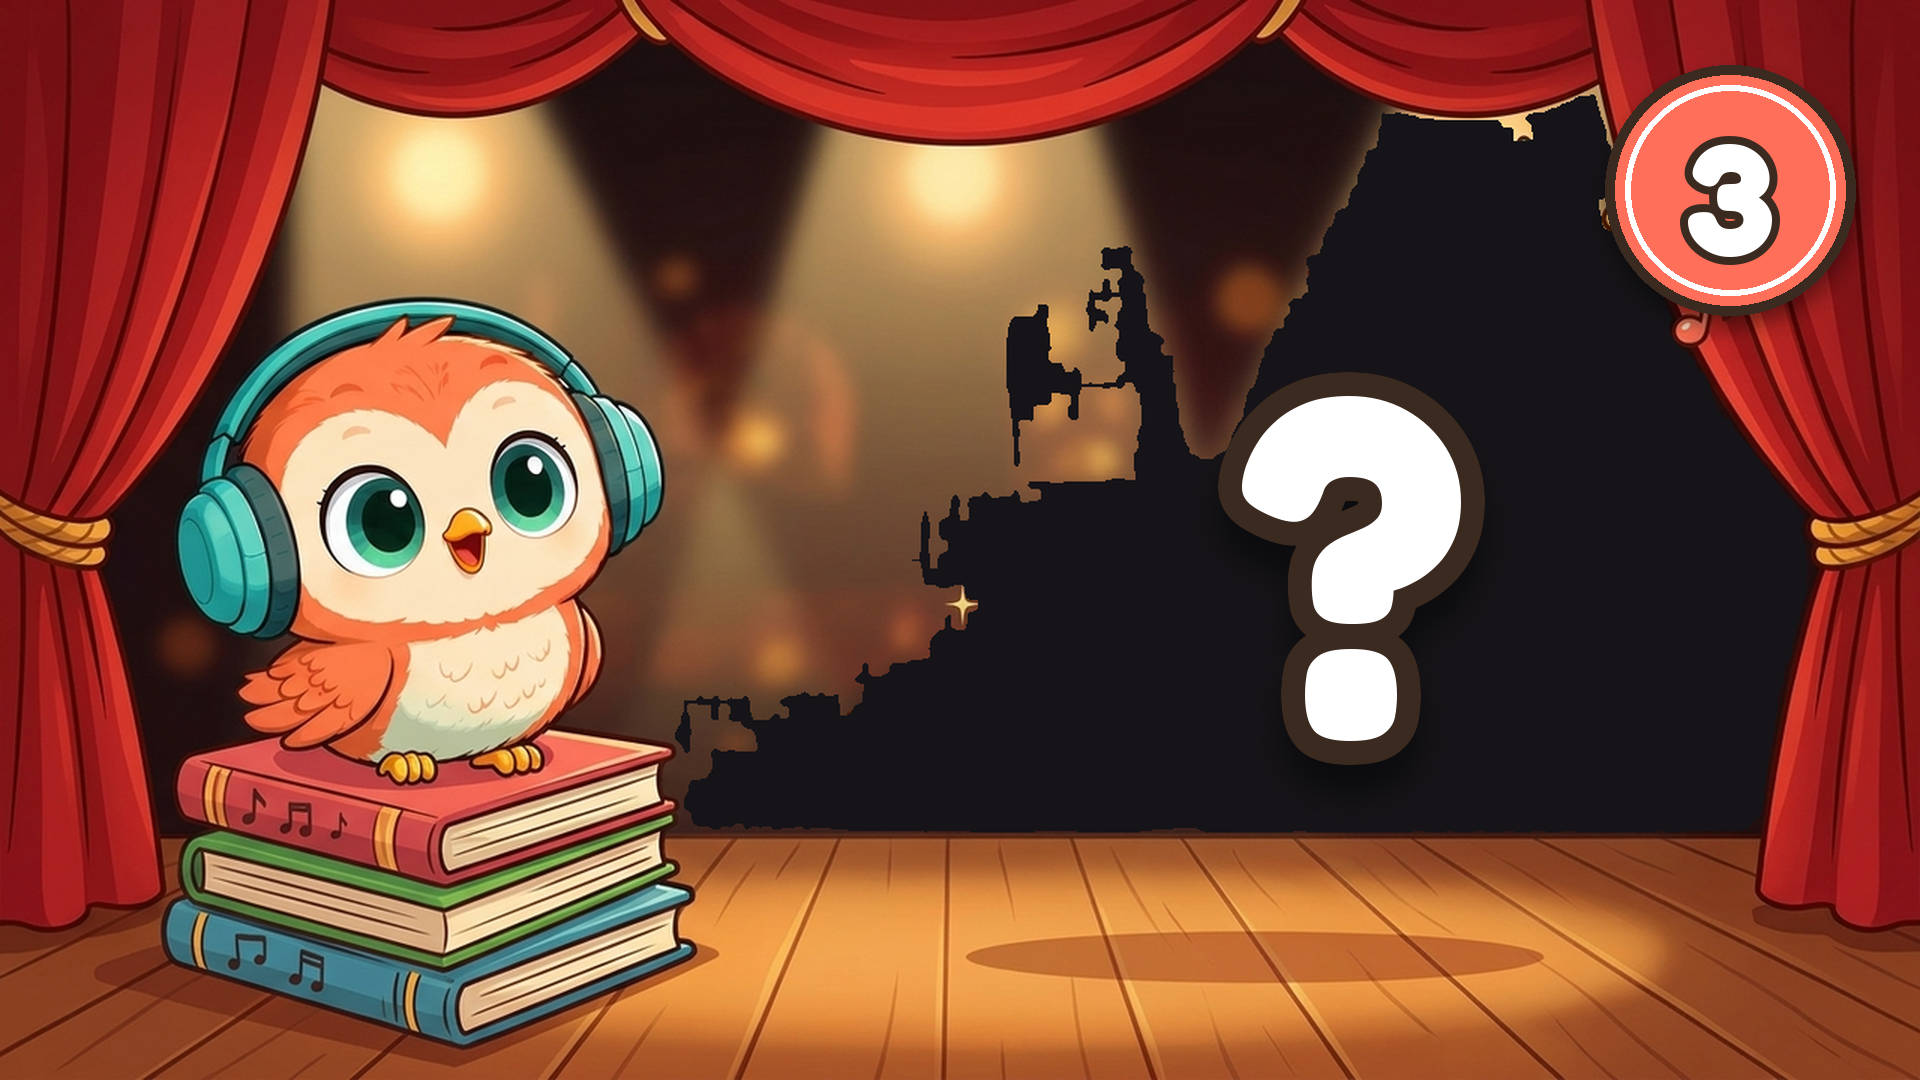
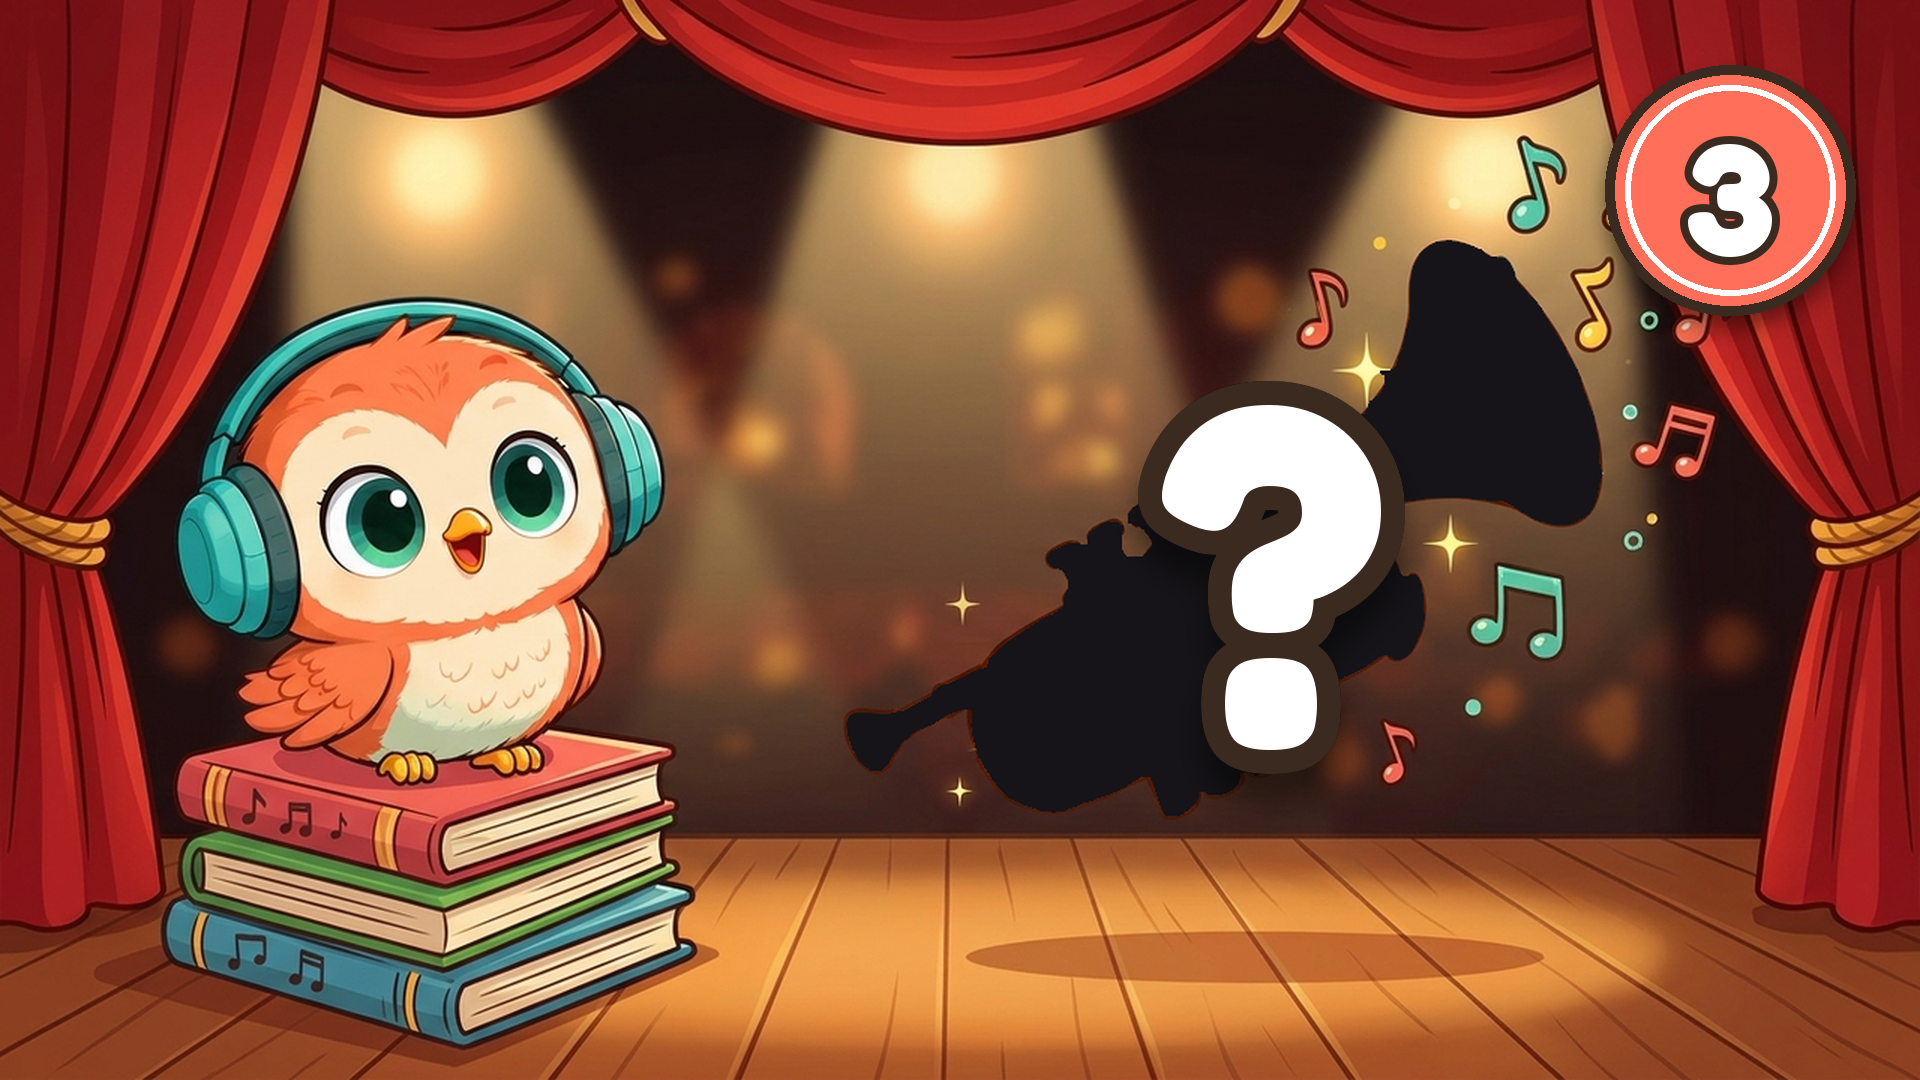
Video 9: silhouettes for all 20 rounds, bonus card, final text; trailer and final in the montage
runda_sam.py: TOATE=1 keeps every large piece (two separate cymbals).

Claude-Session: https://claude.ai/code/session_013XL8KMJpuTBCnbvZY37CBL

Changed region(s): [[0.3438, 0.0917, 0.9375, 0.7944]]

diff --git a/unelte/monteaza_v9.py b/unelte/monteaza_v9.py
@@ -105,16 +105,33 @@ run(["-i", f"{M}/clipuri/00-intro.mp4", "-loop", "1", "-framerate", "30", "-i", 
      "-filter_complex", f"[0:v]trim=0:{ILEN},setpts=PTS-STARTPTS,{V}[i];[1:v]format=rgba[t];[i][t]overlay=0:0:shortest=1[it];"
      f"[2:v]format=rgba,fade=t=in:st=0.2:d=0.25:alpha=1,fade=t=out:st={ILEN - 0.3}:d=0.3:alpha=1[sb];[it][sb]overlay=0:0:shortest=1,format=yuv420p",
      "-t", str(ILEN)] + ENC + [f"{TMP}/intro.mp4"])
-segs = [f"{TMP}/intro.mp4"] + [round_video(r) for r in rounds]
+TRN, TS = [10, 4, 9, 15], 1.25
+TLEN = TS * len(TRN) if FULL else 0
+if FULL:
+    ins = sum((["-loop", "1", "-framerate", "30", "-t", str(TS), "-i", f"{V9}/imagini/runda-{n:02d}/2-silueta.png"] for n in TRN), [])
+    run(ins + ["-filter_complex", "".join(f"[{i}:v]{V}[t{i}];" for i in range(len(TRN))) + "".join(f"[t{i}]" for i in range(len(TRN))) + f"concat=n={len(TRN)}:v=1:a=0"] + ENC + [f"{TMP}/trailer.mp4"])
+segs = ([f"{TMP}/trailer.mp4"] if FULL else []) + [f"{TMP}/intro.mp4"] + [round_video(r) for r in rounds]
+FLEN = 11.0
+FIN = [f"{M}/voci-noi/pip/P-you-did-it-instruments.mp3", f"{R4}/pip/P-super-listener.mp3", f"{R4}/pip/P-see-you-next-time.mp3"]
+if FULL:
+    run(["-i", f"{M}/clipuri/99-final.mp4", "-loop", "1", "-framerate", "30", "-i", f"{V9}/imagini/suprapuneri/final-you-did-it.png",
+         "-filter_complex", f"[0:v]trim=0:10,setpts=PTS-STARTPTS,{V},tpad=stop_mode=clone:stop_duration=1[c];[1:v]format=rgba,scale=1920:1080[t];"
+         f"[c][t]overlay=0:0:shortest=1:enable='between(t,0.4,8.5)',fade=t=out:st={FLEN - 1.5}:d=1.5,format=yuv420p", "-t", str(FLEN)] + ENC + [f"{TMP}/final.mp4"])
+    segs.append(f"{TMP}/final.mp4")
 
 # ---------- lipire (filtrul concat) ----------
 ins = sum((["-i", s] for s in segs), []); k = len(segs)
 run(ins + ["-filter_complex", "".join(f"[{i}:v]" for i in range(k)) + f"concat=n={k}:v=1:a=0[v]", "-map", "[v]"] + ENC + [f"{TMP}/video.mp4"])
 
 # ---------- sunet ----------
-ev = [(IP, 0.15, None, False)]
+ev = []
+if FULL:
+    byn = {r["nr"]: r for r in rounds}
+    for i, n in enumerate(TRN): ev.append((byn[n]["sfx"], i * TS, [byn[n]["s3"][0], byn[n]["s3"][0] + TS - 0.05], True))
+    ev.append((f"{R4}/pip/P-can-you-guess-them-all.mp3", TLEN - dur(f"{R4}/pip/P-can-you-guess-them-all.mp3") - 0.1, None, False))
+ev.append((IP, TLEN + 0.15, None, False))
 cw = [[0.05, 0.8], [0.88, 1.65], [1.84, 2.87]]
-R = ILEN; chapters = []
+R = TLEN + ILEN; chapters = []
 for r in rounds:
     chapters.append((R, r["nr"])); X = r["X"]
     ev += [(r["round"], R + 0.2, None, False), (r["sfx"], R + 2.3, r["s1"], True)]
@@ -124,6 +141,10 @@ for r in rounds:
     ev += [(r["answer"], R + X + 0.5, None, False), (r["sfx"], R + X + 0.6 + a + 0.1, r["s3"], True),
            (r["praise"], R + X + REV - dur(r["praise"]) - 0.3, None, False)]
     R += r["len"]
+if FULL:
+    t = R + 0.5
+    for f in FIN: ev.append((f, t, None, False)); t += dur(f) + 0.35
+    chapters.append((R, "final")); R += FLEN
 total = R
 def level(f, tr):
     af = (f"atrim={tr[0]}:{tr[1]}," if tr else "") + "volumedetect"
@@ -145,5 +166,5 @@ fc += "".join(lab) + f"[mu]amix=inputs={len(lab) + 1}:normalize=0:duration=longe
 run(ins + ["-stream_loop", "-1", "-i", f"{C}/video-04/materiale/muzica/Baby_Animals_Playing_-_Joel_Cummins.mp3", "-filter_complex", fc,
            "-map", "[a]", "-c:a", "aac", "-b:a", "160k", f"{TMP}/audio.m4a"])
 run(["-i", f"{TMP}/video.mp4", "-i", f"{TMP}/audio.m4a", "-c", "copy", "-shortest", "-movflags", "+faststart", OUT])
-print("capitole:"); [print(f"{int(t // 60)}:{int(t % 60):02d} Round {n}") for t, n in chapters]
+print("capitole:"); [print(f"{int(t // 60)}:{int(t % 60):02d} " + ("You did it!" if n == "final" else f"Round {n}" + (" (Bonus!)" if n == 10 else ""))) for t, n in chapters]
 print("gata:", OUT, round(total, 1))

diff --git a/unelte/runda_sam.py b/unelte/runda_sam.py
@@ -32,7 +32,11 @@ for name in (() if len(sys.argv) > 4 and sys.argv[4] == "doar-sam" else ("isnet-
 m[y0:y1, x0:x1] |= extra
 m = nd.binary_fill_holes(nd.binary_closing(m, structure=np.ones((5, 5))))
 lab, n = nd.label(m)
-m = lab == (np.argmax(nd.sum(m, lab, range(1, n + 1))) + 1)
+sz = nd.sum(m, lab, range(1, n + 1))
+if os.environ.get("TOATE"):  # TOATE=1: păstrăm toate bucățile mari (ex. două talgere separate)
+    m = np.isin(lab, [i + 1 for i, v in enumerate(sz) if v > 0.15 * max(sz)])
+else:
+    m = lab == (np.argmax(sz) + 1)
 cy, cx = nd.center_of_mass(m)
 sil = Image.composite(Image.new("RGB", (w, h), (22, 20, 24)), im, Image.fromarray((m * 255).astype("uint8")))
 sil.save(os.path.join(out, "silueta-fara-semn.png"))
